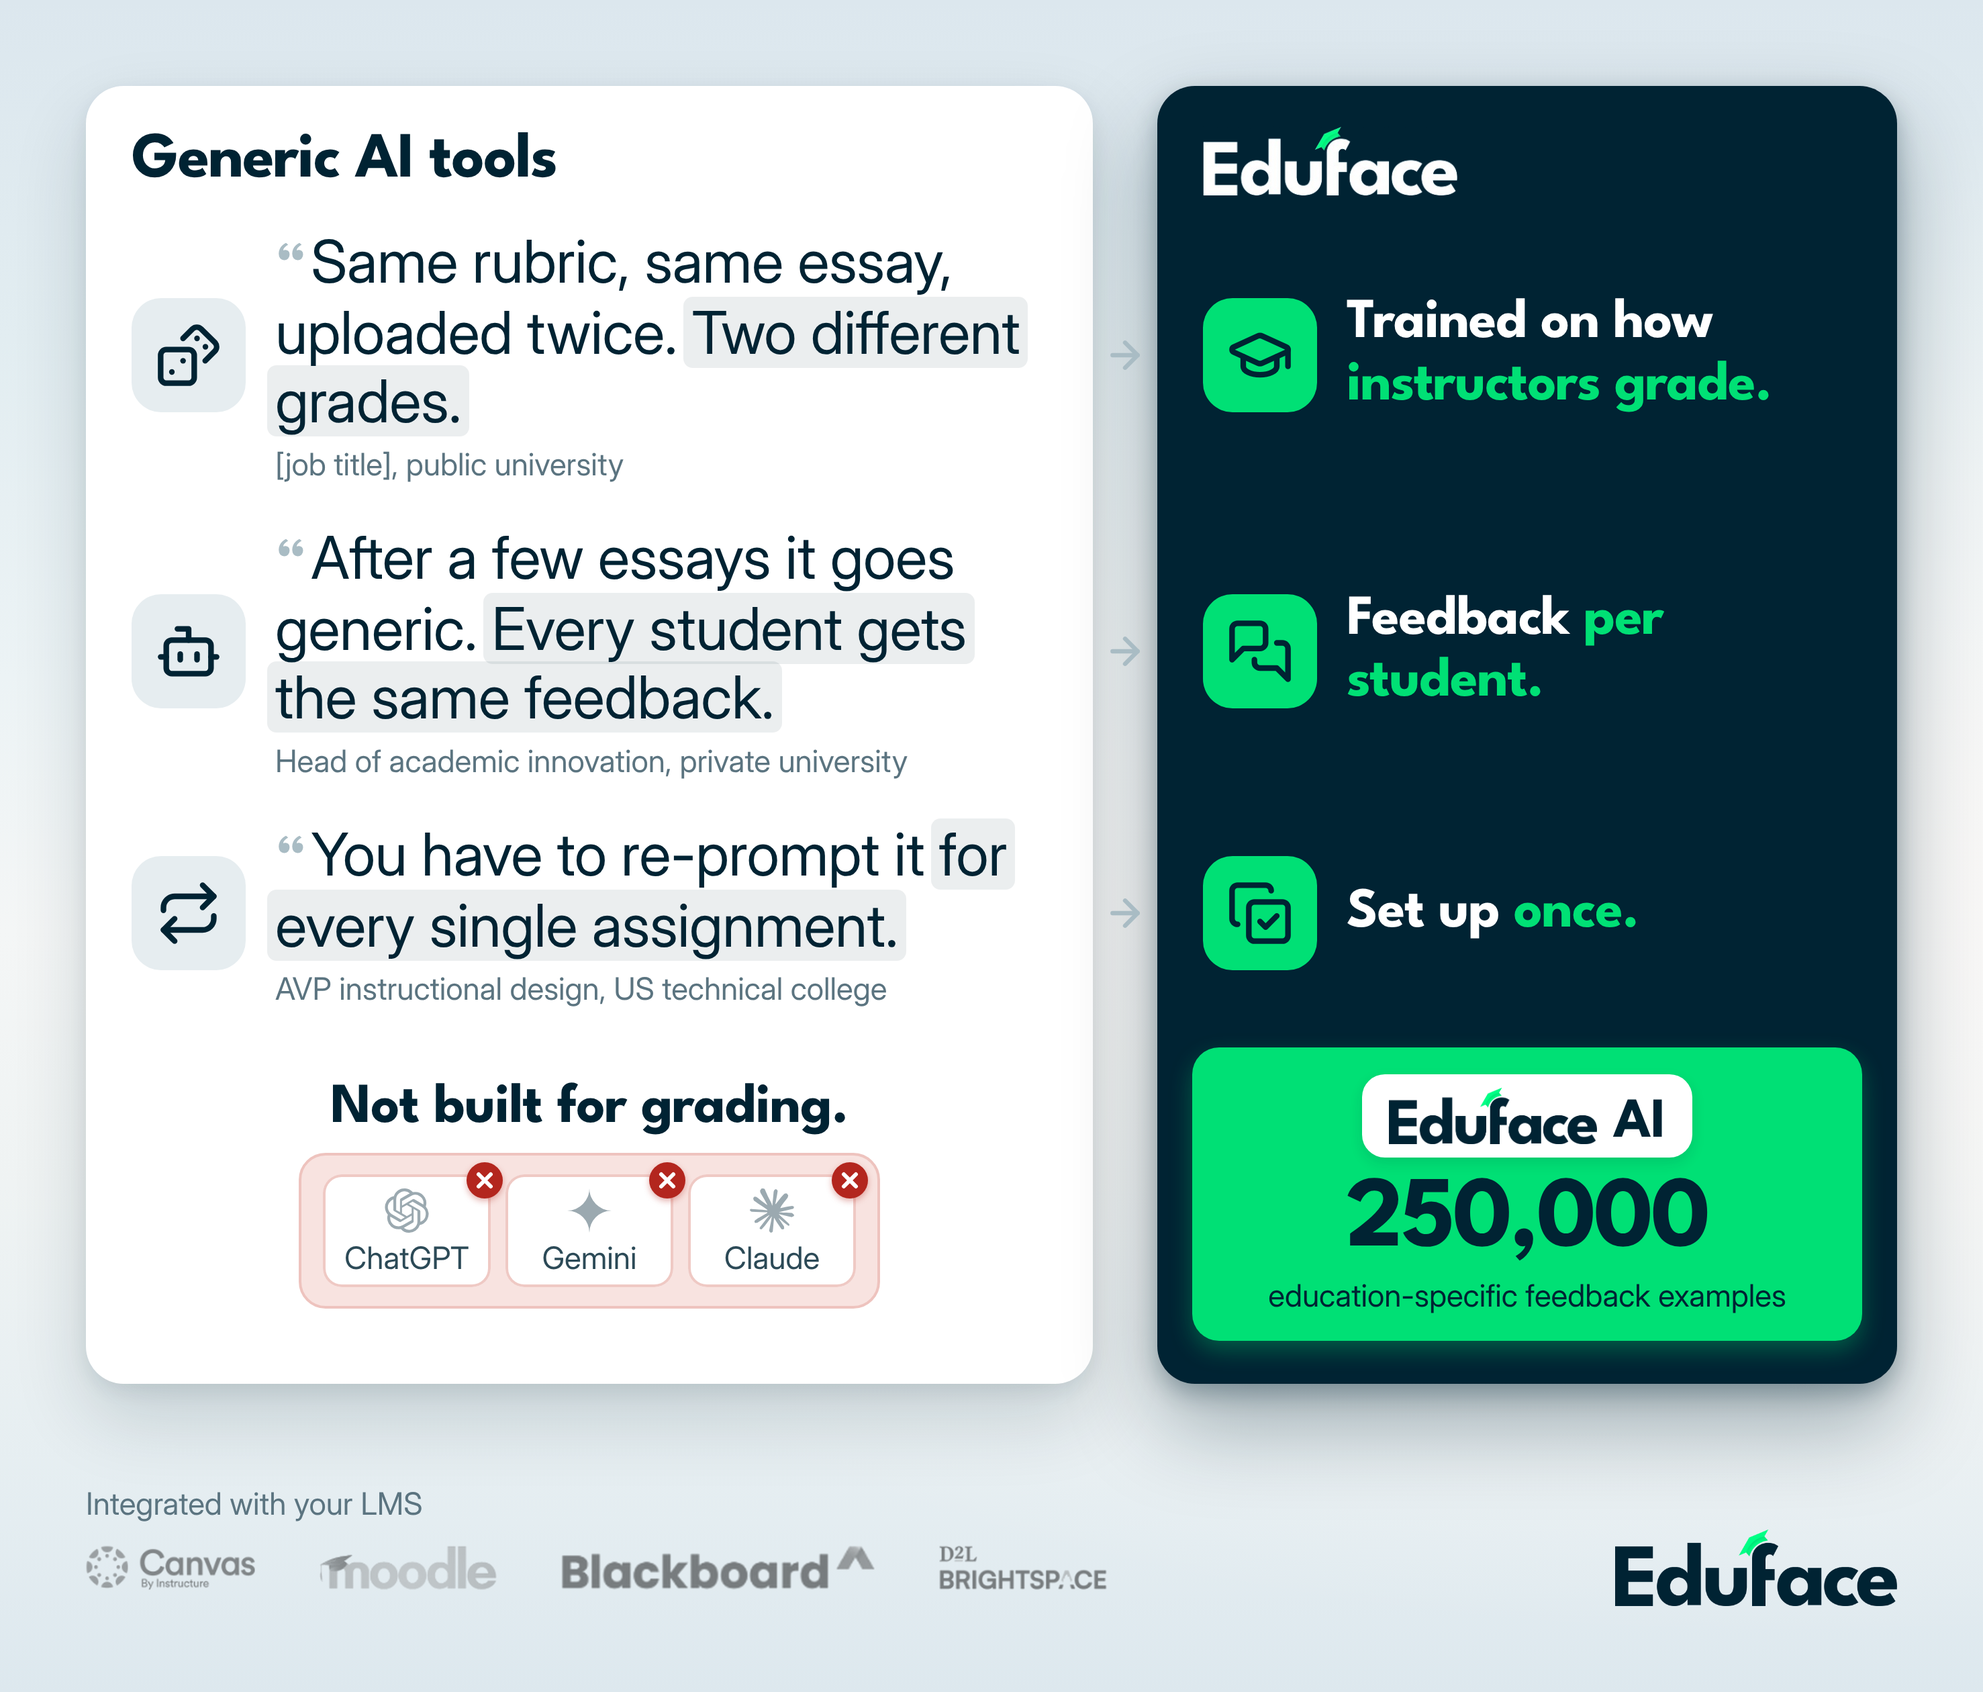
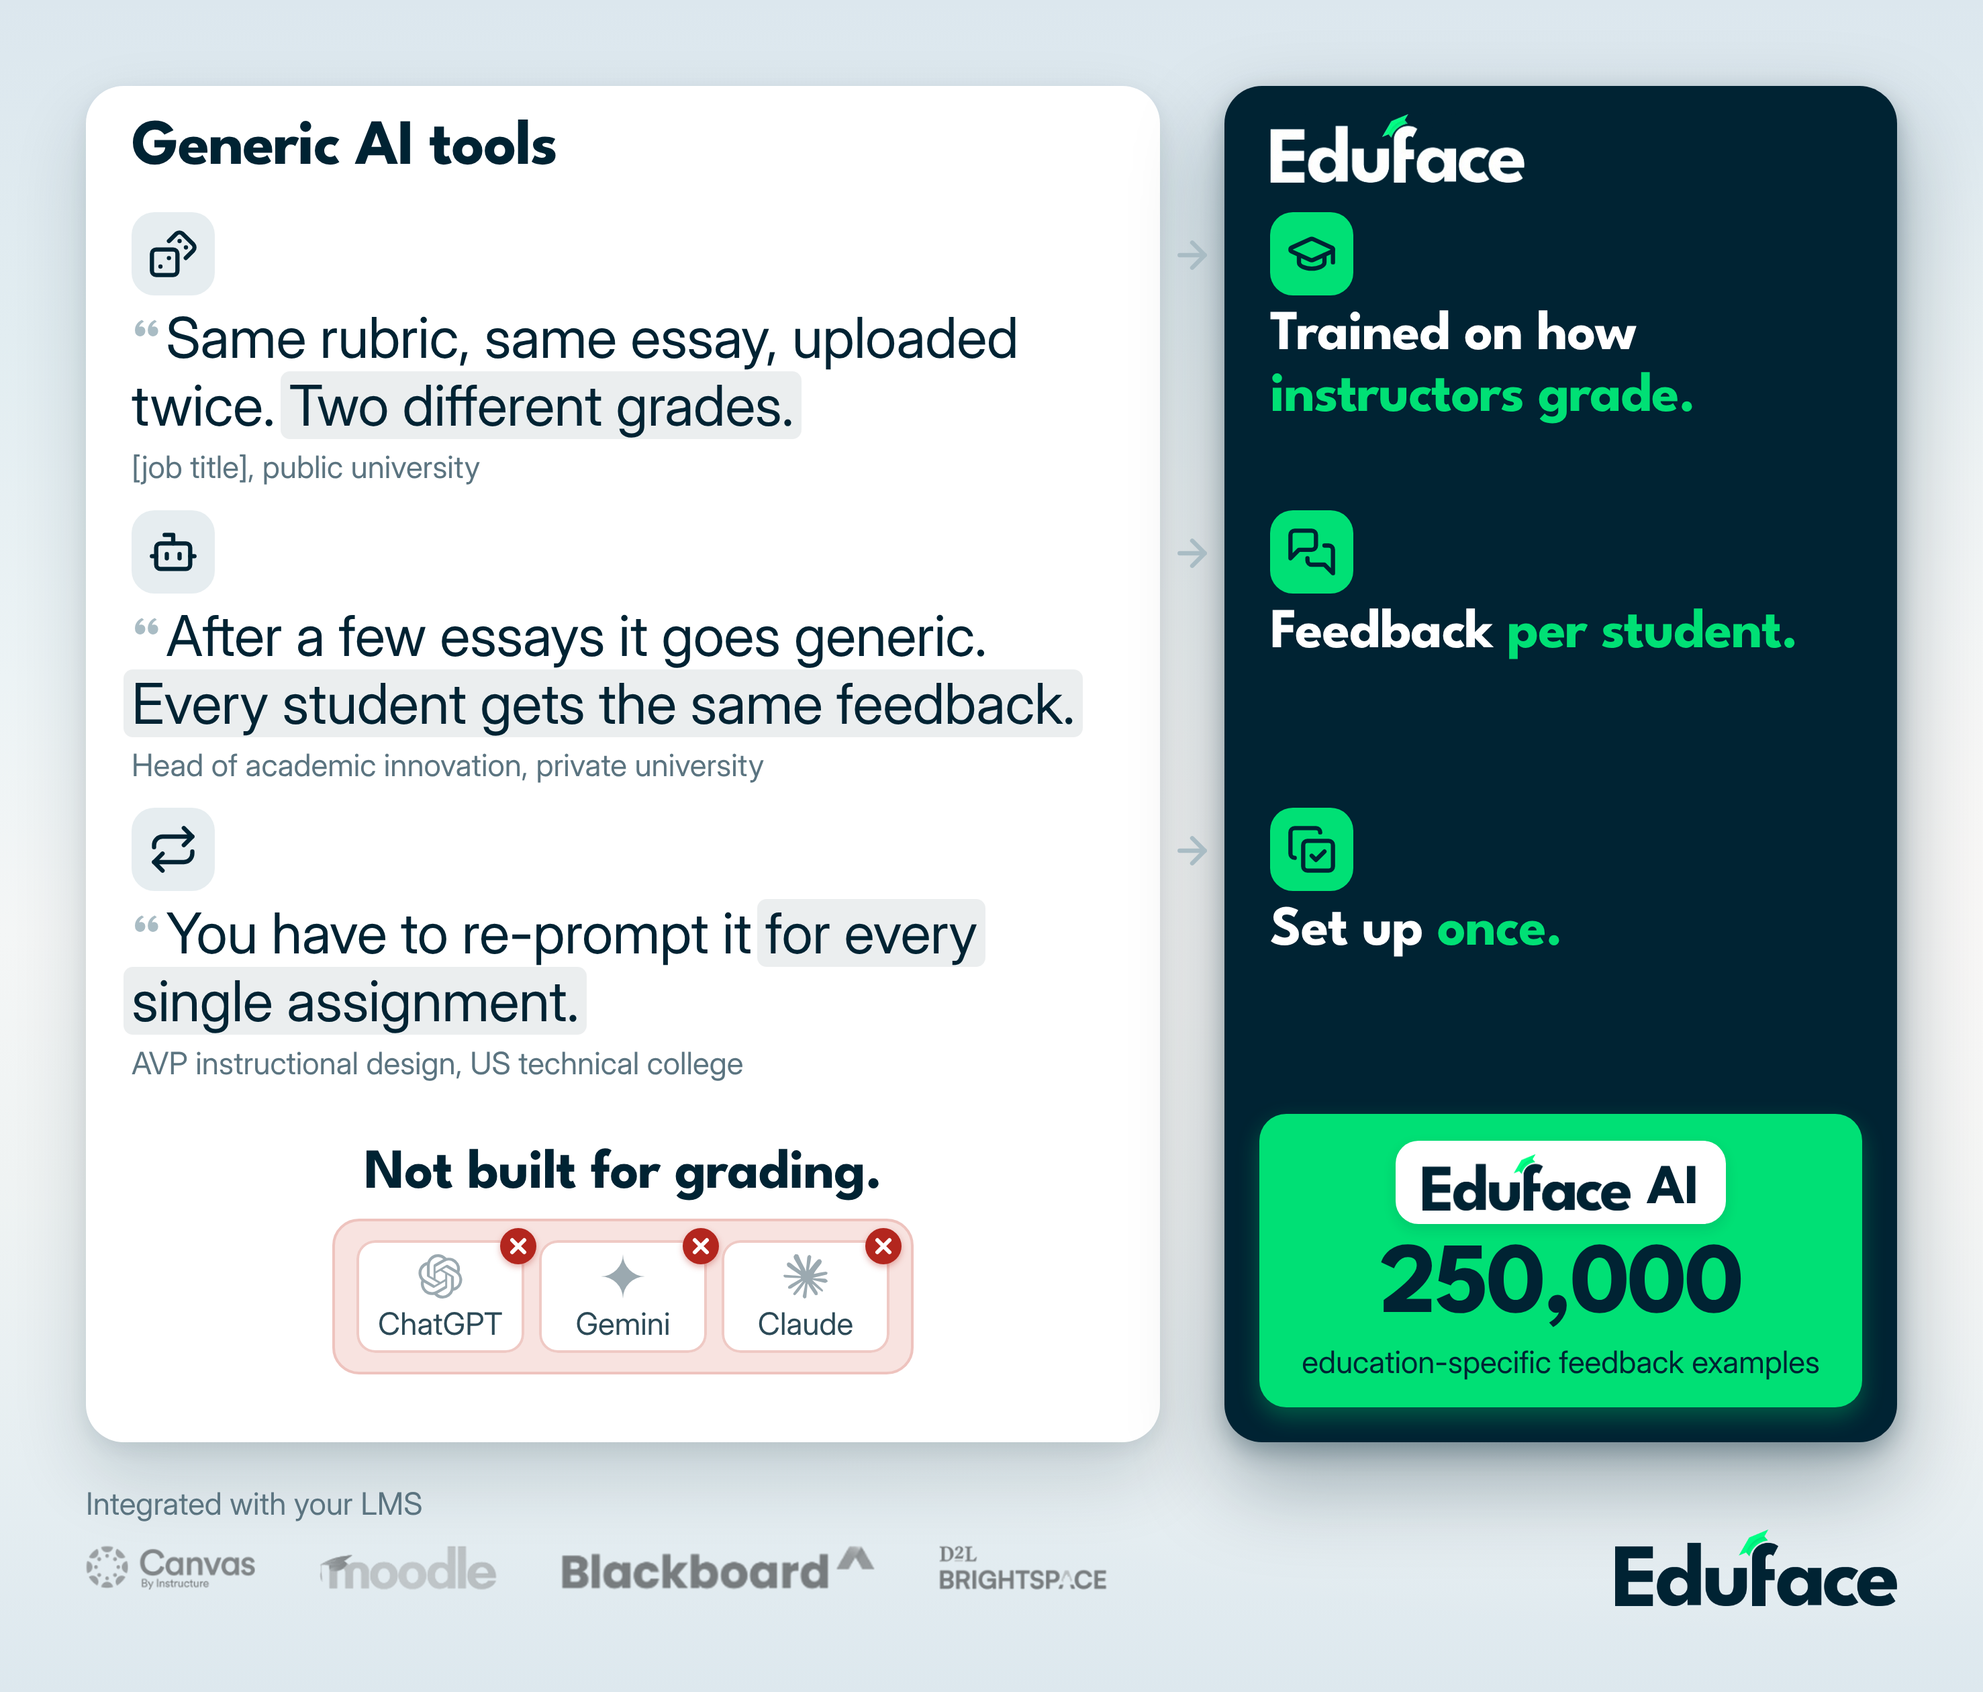
Backwall: iconen boven de tekst, links wit, rechts navy, rijen op een lijn
Claude-Session: https://claude.ai/code/session_011t24oRcD5DFuXzKigdVhtb

Changed region(s): [[0.0311, 0.031, 0.9655, 0.8976]]

diff --git a/creatives/beurs-backwall/backwall-wit-navy-icoon-naast-2026-11-25.html b/creatives/beurs-backwall/backwall-wit-navy-icoon-naast-2026-11-25.html
@@ -1,0 +1,107 @@
+<!doctype html>
+<html lang="en">
+<head>
+<meta charset="utf-8">
+<title>Beurs backwall</title>
+<script src="assets/icons/icons.js"></script>
+<style>
+  /* Canvas: 1 px = 1 mm. Wand 2954 x 2520 mm. De kop van de gevel staat NIET op de wand. Elk vlak heeft zijn eigen kop.
+     Links licht = generieke AI tools (het probleem), rechts donker = Eduface (de oplossing). Per rij een paar, op één lijn.
+     Iconen: Lucide (ISC). Lettersysteem: L 88 Inter (quotes) / M 84 League Spartan (koppen) / S 46 Inter (bronnen, labels) / XL 150 Spartan (alleen het getal). */
+  @font-face { font-family: "League Spartan"; font-weight: 700; src: url("../../Design/Merk/fonts/LeagueSpartan-Bold.ttf"); }
+  @font-face { font-family: "Inter"; font-weight: 400; src: url("../../Design/Merk/fonts/Inter-Regular.ttf"); }
+  :root { --w: 2954px; --h: 2520px; --navy: #002333; --gd: #007b54; --g: #00e075; --i7: #2c4a57; --i5: #5b7480; --i3: #a9bcc4; --i2: #cdd9de; --i50: #f3f7f8; --red: #b3261e; }
+  * { margin: 0; box-sizing: border-box; }
+  html, body { width: var(--w); height: var(--h); }
+  .wall {
+    position: relative; width: var(--w); height: var(--h); overflow: hidden; color: var(--navy);
+    background:
+      radial-gradient(ellipse 80% 45% at 90% 52%, #f9f8f7 0%, rgba(249,248,247,0) 100%),
+      linear-gradient(180deg, #dce7ee 0%, #e2edf1 20%, #ecf3f5 40%, #f4f6f6 55%, #eff3f3 70%, #e4edf1 90%, #dde8ee 100%);
+  }
+  .logo { position: absolute; right: 128px; bottom: 128px; width: 420px; height: auto; }
+
+  .g { position: absolute; left: 128px; top: 128px; width: 2698px; display: grid; grid-template-columns: 1500px 96px 1102px; grid-template-rows: auto auto auto auto auto; }
+  .pl, .pr { grid-row: 1 / 6; border-radius: 56px; }
+  .pl { grid-column: 1; background: #fff; box-shadow: 0 10px 28px rgba(0,35,51,.08), 0 50px 110px rgba(0,35,51,.16); }
+  .pr { grid-column: 3; background: var(--navy); box-shadow: 0 14px 34px rgba(0,35,51,.28), 0 60px 130px rgba(0,35,51,.34); }
+  .cl, .cr, .cm { z-index: 1; display: flex; align-items: center; }
+  .cl { grid-column: 1; padding: 30px 68px; gap: 44px; color: var(--navy); }
+  .cr { grid-column: 3; padding: 30px 68px; gap: 44px; color: #fff; }
+  .cm { grid-column: 2; justify-content: center; }
+  .r0 { grid-row: 1; } .r1 { grid-row: 2; } .r2 { grid-row: 3; } .r3 { grid-row: 4; } .r4 { grid-row: 5; }
+  .r0.cl, .r0.cr { padding-top: 64px; padding-bottom: 20px; height: 180px; }
+  .r4.cl, .r4.cr { padding-bottom: 64px; }
+
+  /* koppen: bepalen meteen wat eronder staat */
+  .hd { font: 700 96px/1 "League Spartan"; letter-spacing: -.02em; color: var(--navy); }
+  .r0.cr img { height: 104px; width: auto; }
+
+  .it { flex: none; width: 170px; height: 170px; border-radius: 44px; display: flex; align-items: center; justify-content: center; }
+  .it svg { width: 100px; height: 100px; fill: none; stroke-width: 2; stroke-linecap: round; stroke-linejoin: round; stroke: var(--navy); }
+  .cl .it { background: #e6edf0; }
+  .cr .it { background: var(--g); }
+  .cm svg { width: 64px; height: 64px; fill: none; stroke: var(--i3); stroke-width: 2.4; stroke-linecap: round; stroke-linejoin: round; }
+
+  .qt { font: 400 88px/1.16 Inter; color: var(--navy); letter-spacing: -.005em; }
+  .qt .qm { font: 700 88px/1 "League Spartan"; color: var(--i3); margin-right: 8px; }
+  .qt mark { background: rgba(0,35,51,.08); color: inherit; padding: 0 12px; margin: 0 -12px; border-radius: 14px; -webkit-box-decoration-break: clone; box-decoration-break: clone; }
+  .who { font: 400 46px/1.2 Inter; color: var(--i5); margin-top: 16px; }
+  .eh { font: 700 84px/1.1 "League Spartan"; letter-spacing: -.015em; color: #fff; }
+  .eh span { color: var(--g); }
+
+  /* onderste rij: links de tools, rechts Eduface AI */
+  .cl.r4 { justify-content: center; text-align: center; }
+  .tools .lab { font: 700 84px/1 "League Spartan"; letter-spacing: -.01em; color: var(--navy); margin-bottom: 24px; }
+  .redbox { display: inline-flex; gap: 22px; background: #f8e3e0; border: 4px solid #eec3be; border-radius: 40px; padding: 28px 32px; }
+  .tl { position: relative; width: 250px; height: 168px; border-radius: 28px; background: #fff; box-shadow: inset 0 0 0 4px #efc9c4;
+        display: flex; flex-direction: column; align-items: center; justify-content: center; gap: 14px; font: 400 46px/1 Inter; color: var(--i7); }
+  .tl img { width: 66px; height: 66px; opacity: .85; }
+  .x { position: absolute; top: -18px; right: -18px; width: 54px; height: 54px; border-radius: 50%; background: var(--red); box-shadow: 0 4px 10px rgba(179,38,30,.35); }
+  .cr.r4 { padding-left: 52px; padding-right: 52px; }
+  .own { width: 100%; border-radius: 40px; background: var(--g); padding: 40px 44px; text-align: center; box-shadow: 0 14px 34px rgba(0,224,117,.30); }
+  .own .top { display: inline-flex; align-items: flex-end; justify-content: center; gap: 24px; background: #fff; border-radius: 34px; padding: 20px 40px; box-shadow: 0 8px 20px rgba(0,35,51,.12); }
+  .own .top img { height: 84px; width: auto; }
+  .own .top .ai { font: 700 84px/.74 "League Spartan"; color: var(--navy); letter-spacing: -.01em; }
+  .own .n { font: 700 150px/1 "League Spartan"; letter-spacing: -.025em; margin-top: 20px; color: var(--navy); }
+  .own .l { font: 400 46px/1.2 Inter; color: var(--navy); margin-top: 8px; }
+
+  .lms { position: absolute; left: 128px; top: 2278px; height: 114px; display: flex; align-items: center; gap: 96px; }
+  .lms img { height: 66px; width: auto; filter: grayscale(1) contrast(.9); opacity: .5; }
+  .lms .lab { position: absolute; left: 0; top: -62px; font: 400 46px/1 Inter; color: var(--i5); white-space: nowrap; }
+</style>
+</head>
+<body>
+  <div class="wall" id="wall">
+    <div id="layer-content"></div>
+    <img class="logo" src="../../Design/Merk/logos/logo_navy.png" alt="Eduface">
+  </div>
+
+<script>
+const ic=(n)=>`<svg viewBox="0 0 24 24">${ICONS[n]}</svg>`;
+const L=(f)=>`assets/logos/${f}.svg`;
+const R0='[job title], public university', R1='Head of academic innovation, private university', R2='AVP instructional design, US technical college';
+/* Quotes: formulering van Dante, 25-11-2026. Bron van quote 2 en 3 staat in de case study; herschreven zinnen nog niet aan die personen voorgelegd (V15). Quote 1: functietitel onbekend (V17). */
+const Q=[{ic:'dices',t:'Same rubric, same essay, uploaded twice. <mark>Two different grades.</mark>',w:R0},
+         {ic:'bot',t:'After a few essays it goes generic. <mark>Every student gets the same feedback.</mark>',w:R1},
+         {ic:'repeat',t:'You have to re-prompt it <mark>for every single assignment.</mark>',w:R2}];
+const A=[{ic:'graduation-cap',h:'Trained on how <span>instructors grade.</span>'},
+         {ic:'messages-square',h:'Feedback <span>per student.</span>'},
+         {ic:'copy-check',h:'Set up <span>once.</span>'}];
+let h='<div class="pl"></div><div class="pr"></div>';
+h+=`<div class="cl r0"><div class="hd">Generic AI tools</div></div><div class="cr r0"><img src="assets/logos/eduface-white.png"></div>`;
+Q.forEach((q,i)=>{
+  h+=`<div class="cl r${i+1}"><div class="it">${ic(q.ic)}</div><div><div class="qt"><span class="qm">“</span>${q.t}</div><div class="who">${q.w}</div></div></div>`;
+  h+=`<div class="cm r${i+1}">${ic('arrow-right')}</div>`;
+  h+=`<div class="cr r${i+1}"><div class="it">${ic(A[i].ic)}</div><div class="eh">${A[i].h}</div></div>`;
+});
+const x=`<div class="x"><svg width="54" height="54" viewBox="0 0 54 54"><path d="M18,18 L36,36 M36,18 L18,36" stroke="#fff" stroke-width="6" stroke-linecap="round"/></svg></div>`;
+const tool=(img,name)=>`<div class="tl"><img src="${L(img)}">${name}${x}</div>`;
+h+=`<div class="cl r4"><div class="tools"><div class="lab">Not built for grading.</div><div class="redbox">${tool('openai','ChatGPT')}${tool('googlegemini','Gemini')}${tool('claude','Claude')}</div></div></div>`;
+h+=`<div class="cr r4"><div class="own"><div class="top"><img src="../../Design/Merk/logos/logo_navy.png"><div class="ai">AI</div></div>
+  <div class="n">250,000</div><div class="l">education-specific feedback examples</div></div></div>`;
+const lms=`<div class="lms"><div class="lab">Integrated with your LMS</div><img src="assets/logos/lms-canvas.png"><img src="assets/logos/lms-moodle.png"><img src="assets/logos/lms-blackboard.png"><img src="assets/logos/lms-brightspace.png"></div>`;
+document.getElementById('layer-content').innerHTML=`<div class="g">${h}</div>${lms}`;
+</script>
+</body>
+</html>

diff --git a/creatives/beurs-backwall/backwall.html b/creatives/beurs-backwall/backwall.html
@@ -7,7 +7,7 @@
 <style>
   /* Canvas: 1 px = 1 mm. Wand 2954 x 2520 mm. De kop van de gevel staat NIET op de wand. Elk vlak heeft zijn eigen kop.
      Links licht = generieke AI tools (het probleem), rechts donker = Eduface (de oplossing). Per rij een paar, op één lijn.
-     Iconen: Lucide (ISC). Lettersysteem: L 88 Inter (quotes) / M 84 League Spartan (koppen) / S 46 Inter (bronnen, labels) / XL 150 Spartan (alleen het getal). */
+     Iconen: Lucide (ISC). Lettersysteem: L 84 Inter (quotes) / M 84 League Spartan (koppen) / S 46 Inter (bronnen, labels) / XL 150 Spartan (alleen het getal). */
   @font-face { font-family: "League Spartan"; font-weight: 700; src: url("../../Design/Merk/fonts/LeagueSpartan-Bold.ttf"); }
   @font-face { font-family: "Inter"; font-weight: 400; src: url("../../Design/Merk/fonts/Inter-Regular.ttf"); }
   :root { --w: 2954px; --h: 2520px; --navy: #002333; --gd: #007b54; --g: #00e075; --i7: #2c4a57; --i5: #5b7480; --i3: #a9bcc4; --i2: #cdd9de; --i50: #f3f7f8; --red: #b3261e; }
@@ -21,7 +21,7 @@
   }
   .logo { position: absolute; right: 128px; bottom: 128px; width: 420px; height: auto; }
 
-  .g { position: absolute; left: 128px; top: 128px; width: 2698px; display: grid; grid-template-columns: 1500px 96px 1102px; grid-template-rows: auto auto auto auto auto; }
+  .g { position: absolute; left: 128px; top: 128px; width: 2698px; display: grid; grid-template-columns: 1600px 96px 1002px; grid-template-rows: auto auto auto auto auto; }
   .pl, .pr { grid-row: 1 / 6; border-radius: 56px; }
   .pl { grid-column: 1; background: #fff; box-shadow: 0 10px 28px rgba(0,35,51,.08), 0 50px 110px rgba(0,35,51,.16); }
   .pr { grid-column: 3; background: var(--navy); box-shadow: 0 14px 34px rgba(0,35,51,.28), 0 60px 130px rgba(0,35,51,.34); }
@@ -30,21 +30,23 @@
   .cr { grid-column: 3; padding: 30px 68px; gap: 44px; color: #fff; }
   .cm { grid-column: 2; justify-content: center; }
   .r0 { grid-row: 1; } .r1 { grid-row: 2; } .r2 { grid-row: 3; } .r3 { grid-row: 4; } .r4 { grid-row: 5; }
-  .r0.cl, .r0.cr { padding-top: 64px; padding-bottom: 20px; height: 180px; }
-  .r4.cl, .r4.cr { padding-bottom: 64px; }
+  .r0.cl, .r0.cr { padding-top: 52px; padding-bottom: 36px; height: 170px; }
+  .pair { flex-direction: column; align-items: flex-start; justify-content: flex-start; gap: 14px; padding-top: 18px; padding-bottom: 18px; }
+  .cm.pair { flex-direction: row; justify-content: center; align-items: flex-start; padding-top: 50px; }
+  .r4.cl, .r4.cr { padding-bottom: 52px; }
 
   /* koppen: bepalen meteen wat eronder staat */
   .hd { font: 700 96px/1 "League Spartan"; letter-spacing: -.02em; color: var(--navy); }
   .r0.cr img { height: 104px; width: auto; }
 
-  .it { flex: none; width: 170px; height: 170px; border-radius: 44px; display: flex; align-items: center; justify-content: center; }
-  .it svg { width: 100px; height: 100px; fill: none; stroke-width: 2; stroke-linecap: round; stroke-linejoin: round; stroke: var(--navy); }
+  .it { flex: none; width: 124px; height: 124px; border-radius: 34px; display: flex; align-items: center; justify-content: center; }
+  .it svg { width: 76px; height: 76px; fill: none; stroke-width: 2; stroke-linecap: round; stroke-linejoin: round; stroke: var(--navy); }
   .cl .it { background: #e6edf0; }
   .cr .it { background: var(--g); }
   .cm svg { width: 64px; height: 64px; fill: none; stroke: var(--i3); stroke-width: 2.4; stroke-linecap: round; stroke-linejoin: round; }
 
-  .qt { font: 400 88px/1.16 Inter; color: var(--navy); letter-spacing: -.005em; }
-  .qt .qm { font: 700 88px/1 "League Spartan"; color: var(--i3); margin-right: 8px; }
+  .qt { font: 400 84px/1.16 Inter; color: var(--navy); letter-spacing: -.005em; }
+  .qt .qm { font: 700 84px/1 "League Spartan"; color: var(--i3); margin-right: 8px; }
   .qt mark { background: rgba(0,35,51,.08); color: inherit; padding: 0 12px; margin: 0 -12px; border-radius: 14px; -webkit-box-decoration-break: clone; box-decoration-break: clone; }
   .who { font: 400 46px/1.2 Inter; color: var(--i5); margin-top: 16px; }
   .eh { font: 700 84px/1.1 "League Spartan"; letter-spacing: -.015em; color: #fff; }
@@ -91,9 +93,9 @@ const A=[{ic:'graduation-cap',h:'Trained on how <span>instructors grade.</span>'
 let h='<div class="pl"></div><div class="pr"></div>';
 h+=`<div class="cl r0"><div class="hd">Generic AI tools</div></div><div class="cr r0"><img src="assets/logos/eduface-white.png"></div>`;
 Q.forEach((q,i)=>{
-  h+=`<div class="cl r${i+1}"><div class="it">${ic(q.ic)}</div><div><div class="qt"><span class="qm">“</span>${q.t}</div><div class="who">${q.w}</div></div></div>`;
-  h+=`<div class="cm r${i+1}">${ic('arrow-right')}</div>`;
-  h+=`<div class="cr r${i+1}"><div class="it">${ic(A[i].ic)}</div><div class="eh">${A[i].h}</div></div>`;
+  h+=`<div class="cl pair r${i+1}"><div class="it">${ic(q.ic)}</div><div><div class="qt"><span class="qm">“</span>${q.t}</div><div class="who">${q.w}</div></div></div>`;
+  h+=`<div class="cm pair r${i+1}">${ic('arrow-right')}</div>`;
+  h+=`<div class="cr pair r${i+1}"><div class="it">${ic(A[i].ic)}</div><div class="eh">${A[i].h}</div></div>`;
 });
 const x=`<div class="x"><svg width="54" height="54" viewBox="0 0 54 54"><path d="M18,18 L36,36 M36,18 L18,36" stroke="#fff" stroke-width="6" stroke-linecap="round"/></svg></div>`;
 const tool=(img,name)=>`<div class="tl"><img src="${L(img)}">${name}${x}</div>`;
